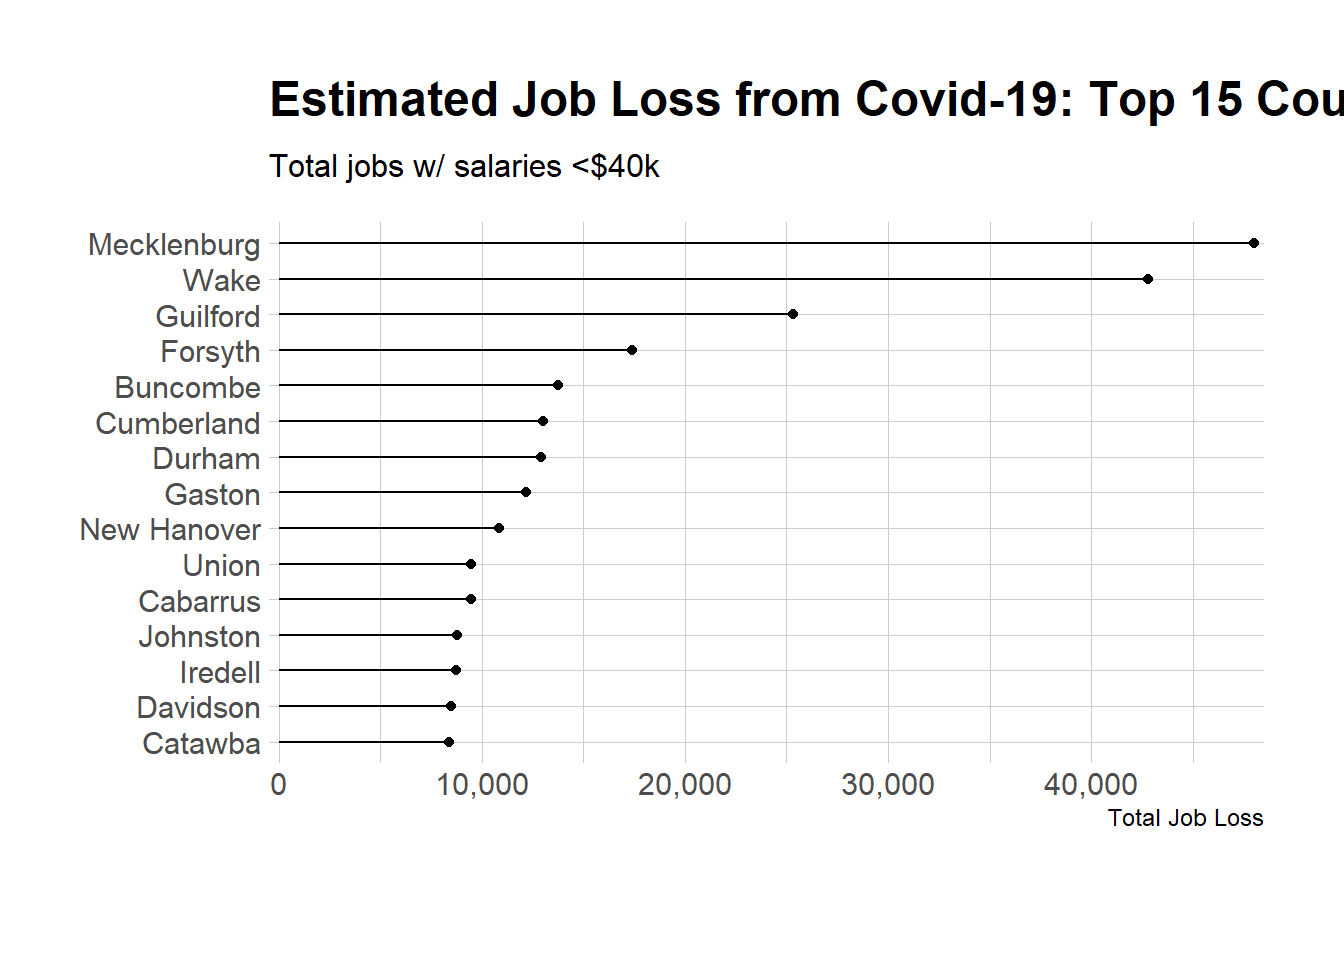
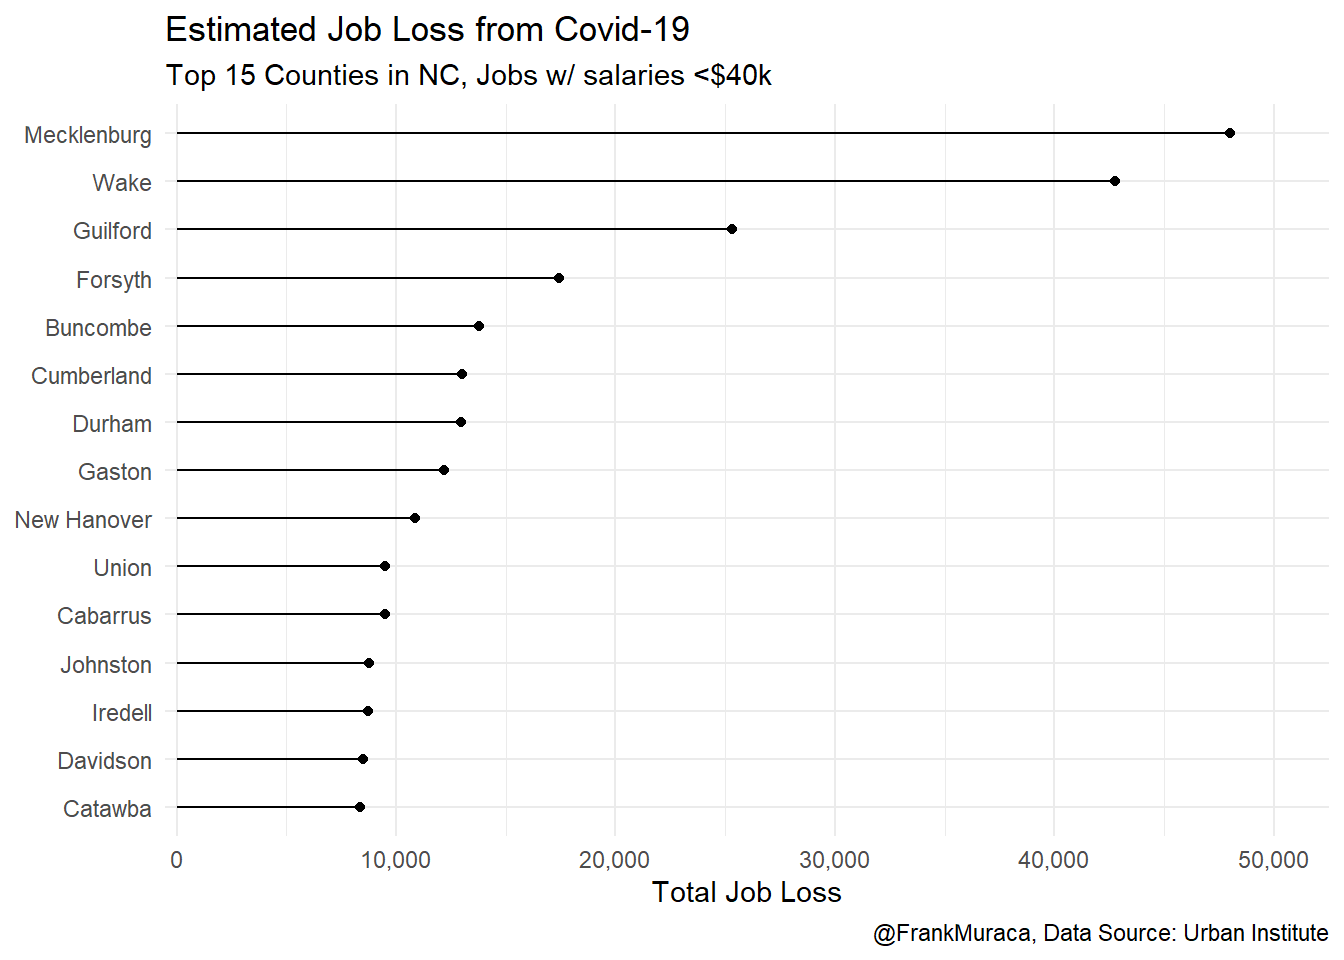
push

diff --git a/public/2020/04/22/measuring-nc-job-loss-from-covid-19/index.html b/public/2020/04/22/measuring-nc-job-loss-from-covid-19/index.html
@@ -91,22 +91,23 @@ covid_county &lt;- rename(covid_county,
   filter(state_name ==&quot;North Carolina&quot;)
 
 county_viz_losstotal &lt;- covid_county_NC %&gt;%
-  arrange(desc(Total_Job_Loss)) %&gt;%
-  top_n(Total_Job_Loss,n=15) %&gt;%
+  arrange(desc(Total_Job_Loss)) %&gt;% ## put highest job loss counties at the top
+  top_n(Total_Job_Loss,n=15) %&gt;% ## select top 15
   select(county_name,Total_Job_Loss) %&gt;%
   ggplot(aes(x=reorder(county_name,Total_Job_Loss),y=Total_Job_Loss)) +
   geom_point() +
   geom_segment(aes(x=county_name,xend=county_name,y=0,yend=Total_Job_Loss)) +
   coord_flip() +
-  theme_ipsum() +
-  scale_y_comma() +
+  theme_minimal() +
+  scale_y_comma(limits=c(0,52000)) +
   labs(y=&quot;Total Job Loss&quot;,
-       title=&quot;Estimated Job Loss from Covid-19: Top 15 Counties in North Carolina&quot;,
-       subtitle = &quot;Total jobs w/ salaries &lt;$40k&quot;,
-       caption=&quot;&quot;,
+       title=&quot;Estimated Job Loss from Covid-19&quot;,
+       subtitle = &quot;Top 15 Counties in NC, Jobs w/ salaries &lt;$40k&quot;,
+       caption=&quot;@FrankMuraca, Data Source: Urban Institute&quot;,
        x=NULL) 
 county_viz_losstotal</code></pre>
 <p><img src="../../../../post/2020-04-22-measuring-nc-job-loss-from-covid-19_files/figure-html/unnamed-chunk-3-1.png" width="672" /></p>
+<p>Unsurprisingly, job loss is highest in North Carolina’s seven metro counties - with Raleigh and Charlotte accounting for about <strong>20%</strong> of jobs lost in the state.</p>
 </div>
 
 				</main>
@@ -145,8 +146,6 @@ county_viz_losstotal</code></pre>
 						<ul class="sidebar-nav">
 							
 							<li><a href="../../../../about/"> About </a></li>
-							
-							<li><a href="../../../../post/"> Posts </a></li>
 							
 						</ul>
 					</nav>

diff --git a/content/post/2020-04-22-measuring-nc-job-loss-from-covid-19.html b/content/post/2020-04-22-measuring-nc-job-loss-from-covid-19.html
@@ -57,20 +57,21 @@ covid_county &lt;- rename(covid_county,
   filter(state_name ==&quot;North Carolina&quot;)
 
 county_viz_losstotal &lt;- covid_county_NC %&gt;%
-  arrange(desc(Total_Job_Loss)) %&gt;%
-  top_n(Total_Job_Loss,n=15) %&gt;%
+  arrange(desc(Total_Job_Loss)) %&gt;% ## put highest job loss counties at the top
+  top_n(Total_Job_Loss,n=15) %&gt;% ## select top 15
   select(county_name,Total_Job_Loss) %&gt;%
   ggplot(aes(x=reorder(county_name,Total_Job_Loss),y=Total_Job_Loss)) +
   geom_point() +
   geom_segment(aes(x=county_name,xend=county_name,y=0,yend=Total_Job_Loss)) +
   coord_flip() +
-  theme_ipsum() +
-  scale_y_comma() +
+  theme_minimal() +
+  scale_y_comma(limits=c(0,52000)) +
   labs(y=&quot;Total Job Loss&quot;,
-       title=&quot;Estimated Job Loss from Covid-19: Top 15 Counties in North Carolina&quot;,
-       subtitle = &quot;Total jobs w/ salaries &lt;$40k&quot;,
-       caption=&quot;&quot;,
+       title=&quot;Estimated Job Loss from Covid-19&quot;,
+       subtitle = &quot;Top 15 Counties in NC, Jobs w/ salaries &lt;$40k&quot;,
+       caption=&quot;@FrankMuraca, Data Source: Urban Institute&quot;,
        x=NULL) 
 county_viz_losstotal</code></pre>
 <p><img src="/post/2020-04-22-measuring-nc-job-loss-from-covid-19_files/figure-html/unnamed-chunk-3-1.png" width="672" /></p>
+<p>Unsurprisingly, job loss is highest in North Carolina’s seven metro counties - with Raleigh and Charlotte accounting for about <strong>20%</strong> of jobs lost in the state.</p>
 </div>

diff --git a/public/2015/07/23/hello-r-markdown/index.html b/public/2015/07/23/hello-r-markdown/index.html
@@ -133,8 +133,6 @@ Figure 1: A fancy pie chart.
 							
 							<li><a href="../../../../about/"> About </a></li>
 							
-							<li><a href="../../../../post/"> Posts </a></li>
-							
 						</ul>
 					</nav>
 

diff --git a/public/2015/01/01/lorem-ipsum/index.html b/public/2015/01/01/lorem-ipsum/index.html
@@ -68,8 +68,6 @@
 							
 							<li><a href="../../../../about/"> About </a></li>
 							
-							<li><a href="../../../../post/"> Posts </a></li>
-							
 						</ul>
 					</nav>
 

diff --git a/public/2016/12/30/a-plain-markdown-post/index.html b/public/2016/12/30/a-plain-markdown-post/index.html
@@ -87,8 +87,6 @@
 							
 							<li><a href="../../../../about/"> About </a></li>
 							
-							<li><a href="../../../../post/"> Posts </a></li>
-							
 						</ul>
 					</nav>
 

diff --git a/public/categories/r/index.html b/public/categories/r/index.html
@@ -70,8 +70,6 @@
 							
 							<li><a href="../../about/"> About </a></li>
 							
-							<li><a href="../../post/"> Posts </a></li>
-							
 						</ul>
 					</nav>
 

diff --git a/public/tags/covid-19/index.html b/public/tags/covid-19/index.html
@@ -70,8 +70,6 @@
 							
 							<li><a href="../../about/"> About </a></li>
 							
-							<li><a href="../../post/"> Posts </a></li>
-							
 						</ul>
 					</nav>
 

diff --git a/public/tags/economic-development/index.html b/public/tags/economic-development/index.html
@@ -70,8 +70,6 @@
 							
 							<li><a href="../../about/"> About </a></li>
 							
-							<li><a href="../../post/"> Posts </a></li>
-							
 						</ul>
 					</nav>
 

diff --git a/public/tags/plot/index.html b/public/tags/plot/index.html
@@ -70,8 +70,6 @@
 							
 							<li><a href="../../about/"> About </a></li>
 							
-							<li><a href="../../post/"> Posts </a></li>
-							
 						</ul>
 					</nav>
 

diff --git a/public/tags/r-markdown/index.html b/public/tags/r-markdown/index.html
@@ -70,8 +70,6 @@
 							
 							<li><a href="../../about/"> About </a></li>
 							
-							<li><a href="../../post/"> Posts </a></li>
-							
 						</ul>
 					</nav>
 

diff --git a/public/tags/regression/index.html b/public/tags/regression/index.html
@@ -70,8 +70,6 @@
 							
 							<li><a href="../../about/"> About </a></li>
 							
-							<li><a href="../../post/"> Posts </a></li>
-							
 						</ul>
 					</nav>
 

diff --git a/public/about/index.html b/public/about/index.html
@@ -68,8 +68,6 @@
 							
 							<li><a href="../about/"> About </a></li>
 							
-							<li><a href="../post/"> Posts </a></li>
-							
 						</ul>
 					</nav>
 
